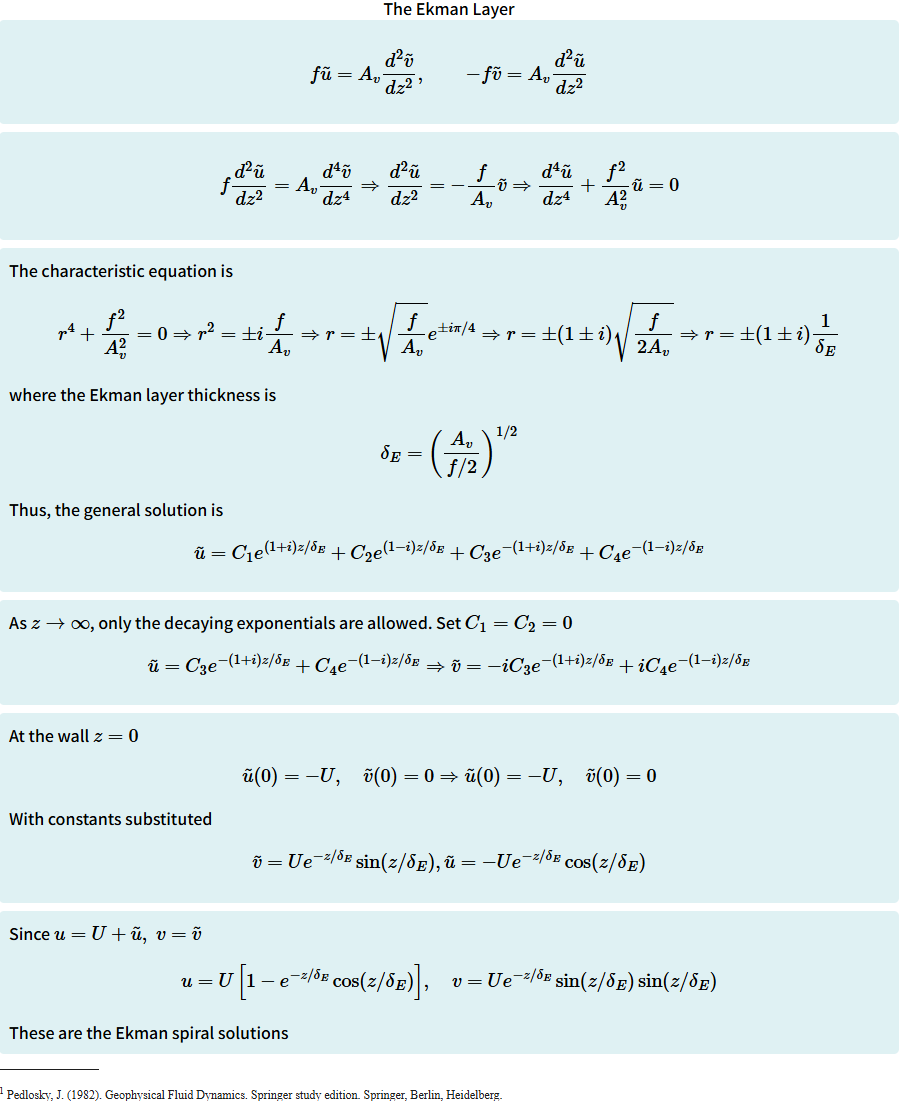
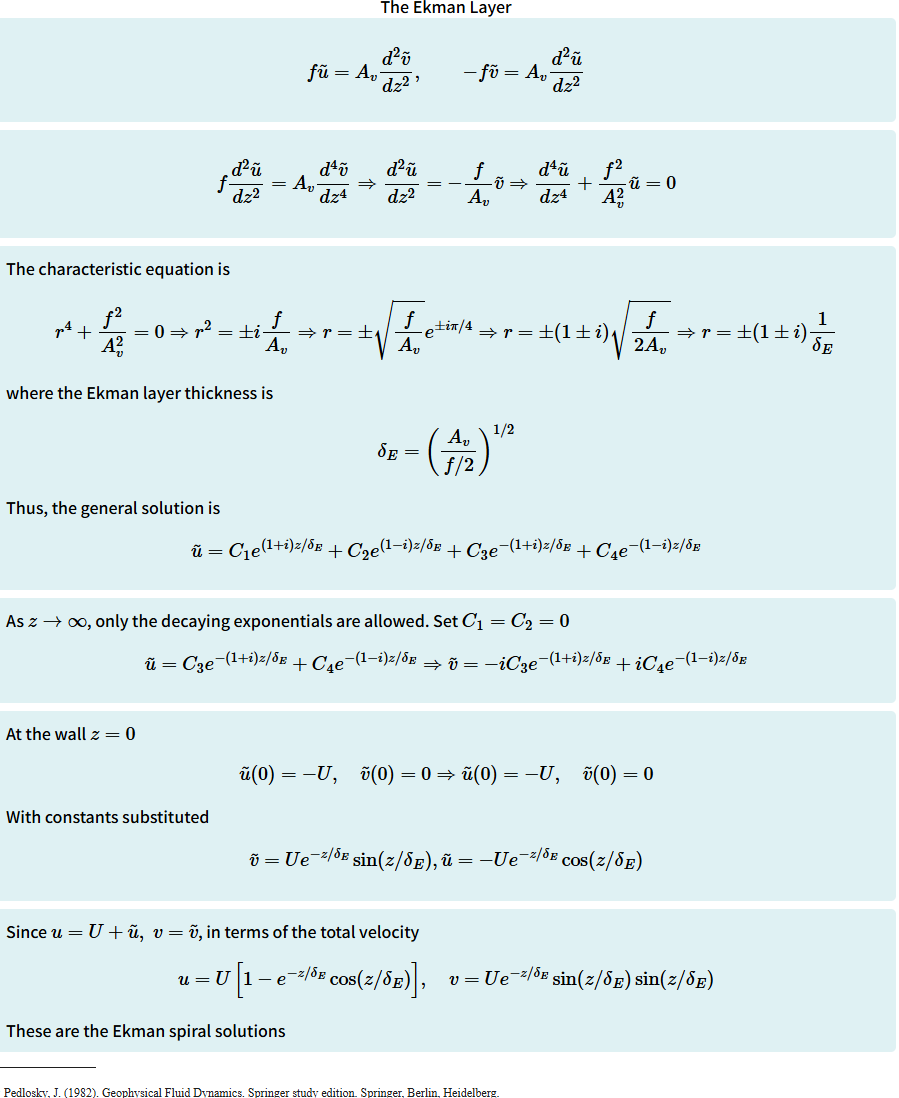
Update

diff --git a/Lecture5ASlide26.html b/Lecture5ASlide26.html
@@ -156,57 +156,35 @@ window.addEventListener('resize', scaleContainer);
         <div class="title">The Ekman Layer</div>
 
 <div class="description">
+Define the horizontal vorticity components
+
 $$
-f \tilde{u} = A_v \frac{d^2 \tilde{v}}{dz^2}, 
-\qquad
--f \tilde{v} = A_v \frac{d^2 \tilde{u}}{dz^2}
+\zeta = - \frac{\partial v}{\partial z}, 
+\qquad 
+\eta = + \frac{\partial u}{\partial z}
 $$
+
+These describe how the horizontal flow varies with depth
 </div>
 
 <div class="description">
+Differentiate the \(x\)-momentum and \(y\)-momentum equation with respect to $z$
+\[-f \frac{\partial v}{\partial z} = A_v \frac{d^3 u}{dz^3} \Rightarrow f\zeta = A_v \frac{d^2 \eta}{dz^2}\]
+\[f \frac{\partial u}{\partial z} = A_v \frac{d^3 v}{dz^3} \Rightarrow f\eta = A_v \frac{d^2 \zeta}{dz^2} \]
 $$
-f \frac{d^2 \tilde{u}}{dz^2} = A_v \frac{d^4 \tilde{v}}{dz^4} \Rightarrow \frac{d^2 \tilde{u}}{dz^2} = -\frac{f}{A_v}\tilde{v} \Rightarrow \frac{d^4 \tilde{u}}{dz^4} + \frac{f^2}{A_v^2}\tilde{u} = 0
-$$
-</div>
-
-<div class="description">
-The characteristic equation is
-$$
-r^4 + \frac{f^2}{A_v^2} = 0 \Rightarrow r^2 = \pm i \frac{f}{A_v} \Rightarrow r = \pm \sqrt{\frac{f}{A_v}} e^{\pm i \pi/4} \Rightarrow r = \pm (1 \pm i)\sqrt{\frac{f}{2A_v}}
-\Rightarrow
-r = \pm (1 \pm i)\frac{1}{\delta_E}
-$$
-where the Ekman layer thickness is
-$$
-\delta_E = \left(\frac{A_v}{f/2}\right)^{1/2}
-$$
-Thus, the general solution is
-$$
-\tilde{u} = C_1 e^{(1+i)z/\delta_E} + C_2 e^{(1-i)z/\delta_E} 
-+ C_3 e^{-(1+i)z/\delta_E} + C_4 e^{-(1-i)z/\delta_E}
+0 = + f \frac{\partial v}{\partial z} + A_v \frac{\partial^2 \eta}{\partial z^2}, \qquad
+0 = + f \frac{\partial u}{\partial z} + A_v \frac{\partial^2 \zeta}{\partial z^2}
 $$
 </div>
 
-<div class="description">
-As $z \to \infty$, only the decaying exponentials are allowed. Set \(C_1 = C_2 = 0\)
-$$
-\tilde{u} = C_3 e^{-(1+i)z/\delta_E} + C_4 e^{-(1-i)z/\delta_E} \Rightarrow \tilde{v} = -i C_3 e^{-(1+i)z/\delta_E} + i C_4 e^{-(1-i)z/\delta_E}
-$$
-</div>
 
-<div class="description">
-At the wall $z=0$ 
-\[\tilde{u}(0) = -U, \quad \tilde{v}(0) = 0 \Rightarrow \tilde{u}(0) = -U, \quad \tilde{v}(0) = 0\]
-With constants substituted
-\[\tilde{v} = U e^{-z/\delta_E}\sin(z/\delta_E), \tilde{u} = -U e^{-z/\delta_E}\cos(z/\delta_E)\]
-</div>
 
-<div class="description">
-Since $u = U + \tilde{u}, \; v = \tilde{v}$, in terms of the total velocity
-$$
-u = U\left[1 - e^{-z/\delta_E}\cos(z/\delta_E)\right], \quad v = U e^{-z/\delta_E}\sin(z/\delta_E)\sin(z/\delta_E)
-$$
-These are the Ekman spiral solutions
+<div class="image-container">
+<img src="Figures/Lecture5A_ProfileVelocityEkman.png" alt="ProfileVelocityEkman" style="max-width: 49%; height: 100%;">
+<p>The Ekman layer is established as a <span class="highlightkumon"><span class="sql">balance between the vorticity diffusion from the boundary and the compensating tilting of the planetary vorticity filaments</span>.</span><br><br>
+The requirement that $u$ should decrease from $U$ to zero as the boundary is approached requires $\eta \neq 0$, and this in turn requires $v \neq 0$, so that the diffusion of $\eta$ can be balanced by the tilting of vortex filaments in the $y$-direction by $\partial v / \partial z$<br>
+The figure shows the profiles of the velocity components $u$ and $v$. Far from the wall the velocity is entirely in the $x$-direction, which is the direction of the geostrophic flow. As the wall is approached, the retarding effect of friction decreases $u$. However, the pressure gradient in the $y$-direction is independent of $z$ and is therefore balanced only at infinity by the $y$-component of the Coriolis force. As $u$ decreases, this Coriolis force weakens, and in the presence of the pressure force in the $y$-direction, a velocity $v$ in that direction must be produced, flowing from high pressure to low pressure, retarded only by fluid friction
+</p>
 </div>
 
         <!-- Footnote Section -->
@@ -217,8 +195,8 @@ These are the Ekman spiral solutions
             </p>
 
         <!-- Navigation Buttons -->
-        <a href="Lecture5ASlide24.html" class="nav-button left">&#9664;</a>
-        <a href="Lecture5ASlide26.html" class="nav-button right">&#9654;</a>
+        <a href="Lecture5ASlide25.html" class="nav-button left">&#9664;</a>
+        <a href="Lecture5ASlide27.html" class="nav-button right">&#9654;</a>
     </div>
 </body>
 </html>
